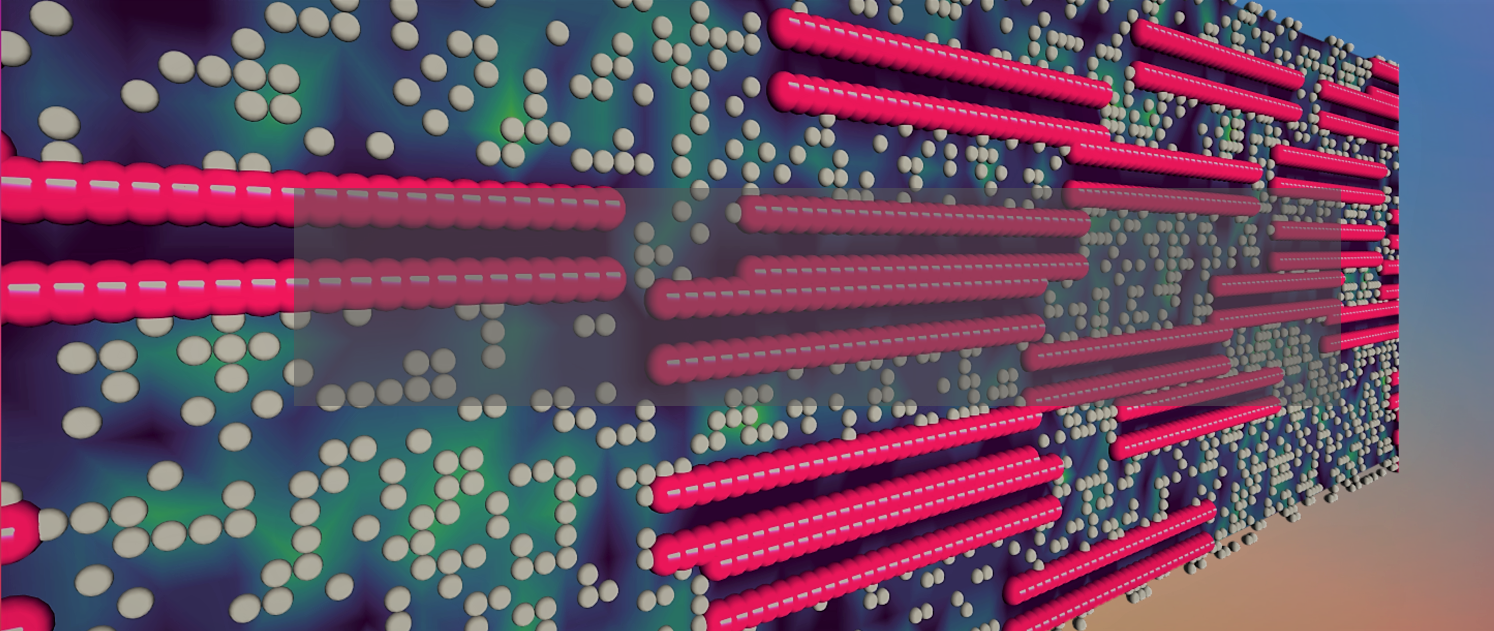
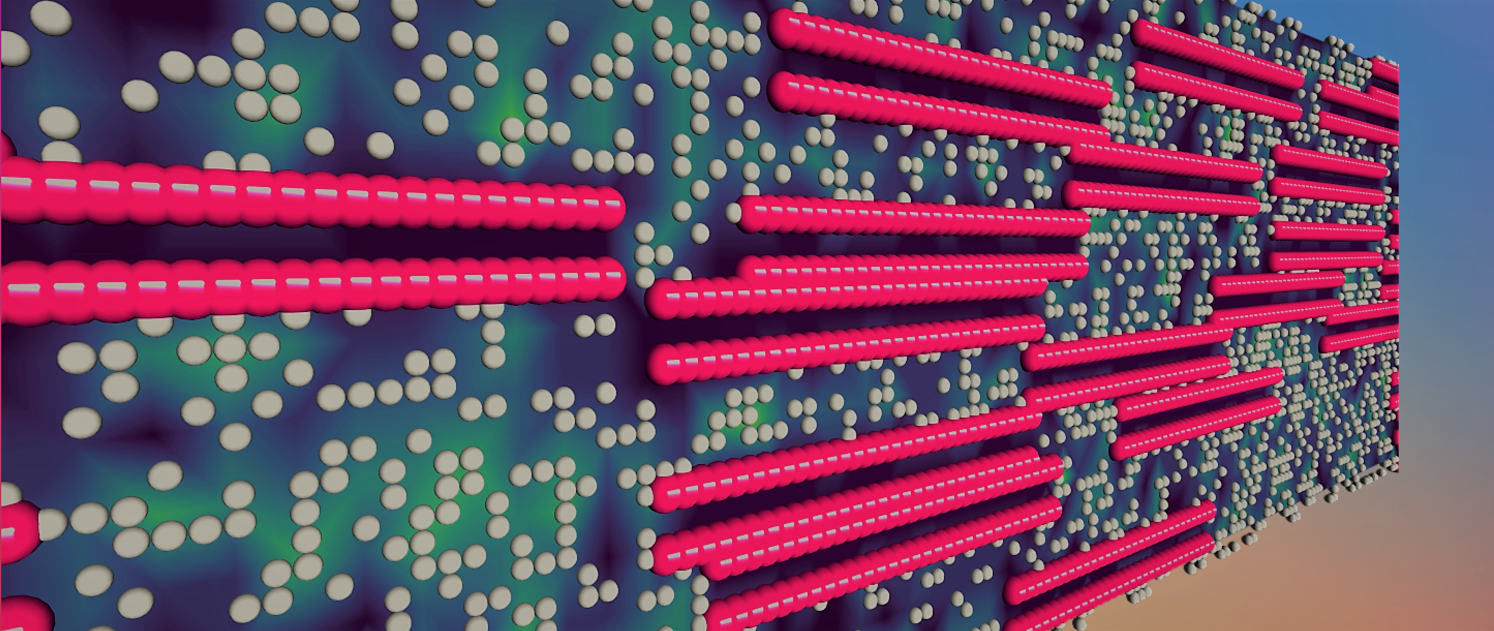
better compat with mobile

Changed region(s): [[0.1847, 0.271, 0.9237, 0.6624]]

diff --git a/content/home/home_slider.md b/content/home/home_slider.md
@@ -22,20 +22,18 @@ content:
         position: center
         size: cover
         color: '#666'
-        brightness: 0.7
-        media: irmof_field.png
-        fit: fill
-        image_size: contain
-    - title: 🛠 Mulitscale Workflows for Materials Screening
+        brightness: 0.35
+        media: 8.png
+        fit: contain
+    - title: 🛠 Multiscale Workflows for Materials Screening
       content: 'Computational characterization, molecular simulations and process modelling'
       align: center
       background:
         position: center
         color: '#333'
-        brightness: 0.9
-        media: matopt_7.png
-        fit: contain 
-        image_size: contain
+        brightness: 0.35 
+        media: matopt3.png
+        fit: contain
       link:
         icon: graduation-cap
         icon_pack: fas
@@ -47,10 +45,9 @@ content:
       background:
         position: center
         image_color: '#555'
-        brightness: 0.7
-        media: mat_char_image.png
-        fit: stretch  
-        image_size: contain
+        brightness: 0.35
+        media: 4.png
+        fit: contain
       link:
         icon: graduation-cap
         icon_pack: fas  
@@ -61,11 +58,10 @@ content:
       align: center
       background:
         position: center
-        fit: stretch  
-        image_size: contain
         color: '#333'
-        brightness: 0.5
-        media: 2.png
+        brightness: 0.3
+        media: 1.png 
+        fit: contain
       link:
         icon: graduation-cap
         icon_pack: fas
@@ -79,11 +75,10 @@ content:
         color: '#333'
         brightness: 0.5
         media: 12.png
-        fit: stretch  
-        image_size: contain
+        fit: contain
       link:
         icon: graduation-cap
         icon_pack: fas
-        text: go to projects
+        text: Go to projects
         url: ../project/
 ---
